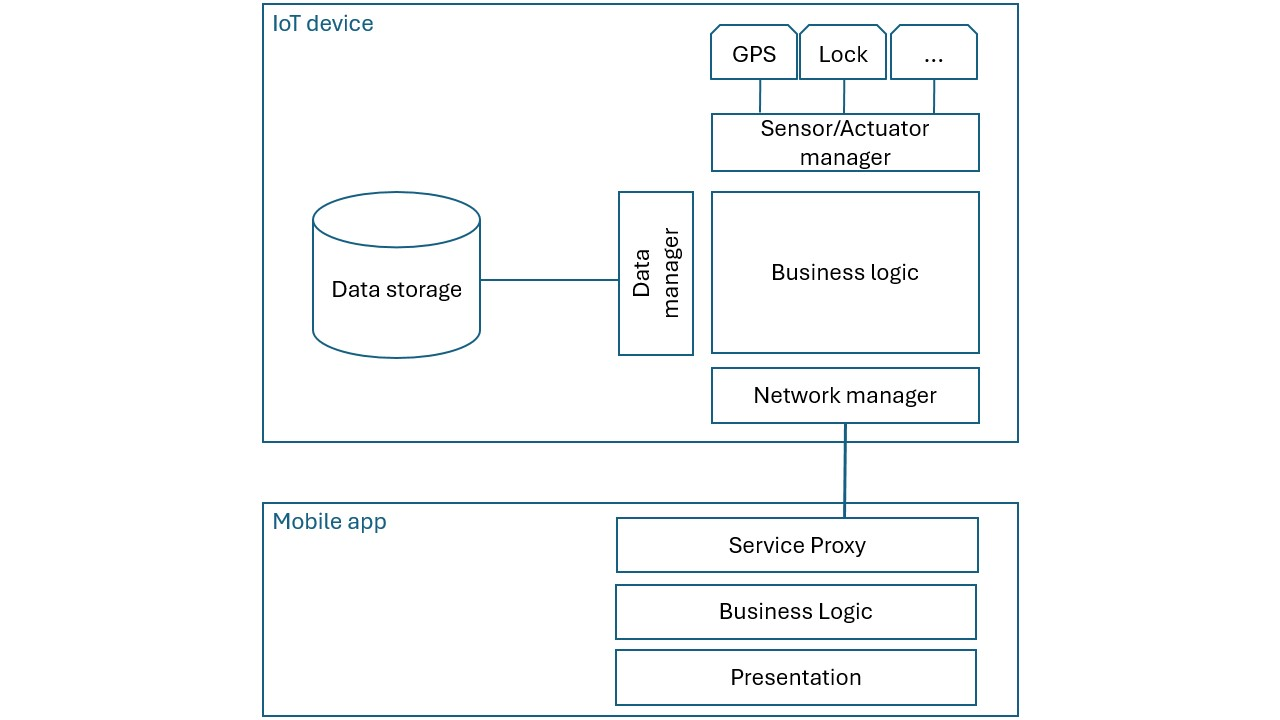
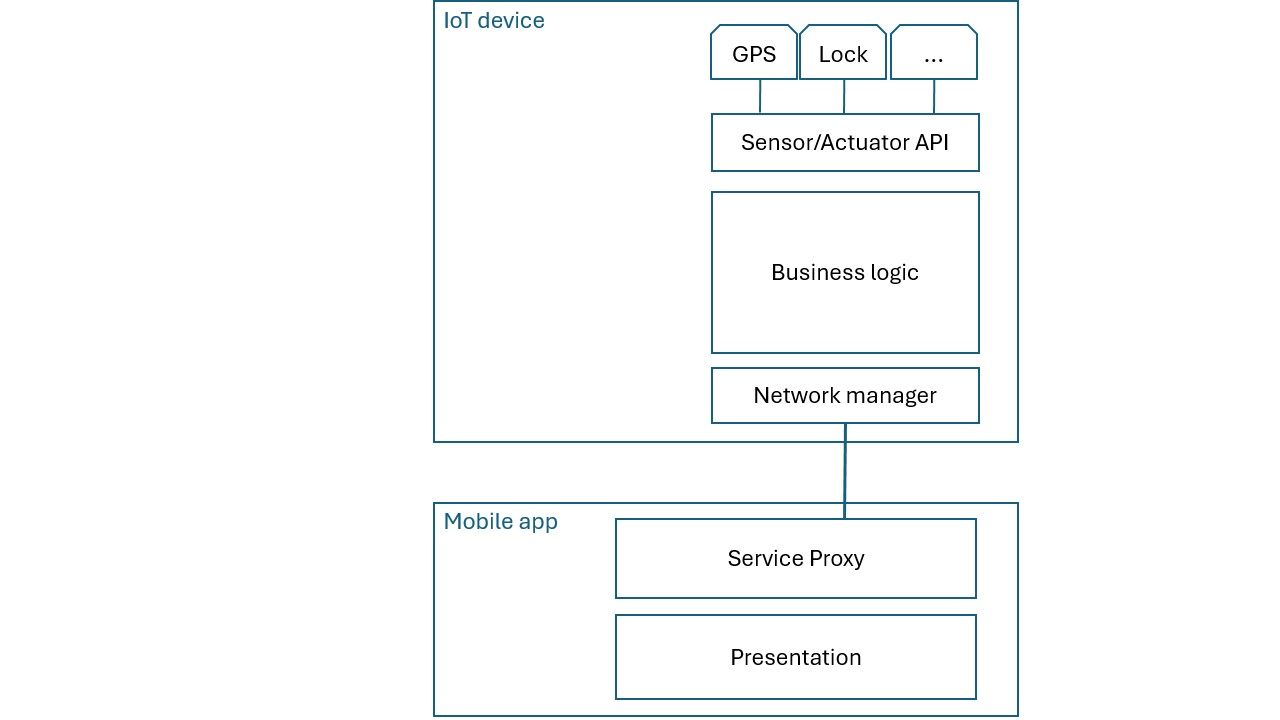
Testing

diff --git a/docs/main.tex b/docs/main.tex
@@ -2,7 +2,7 @@
 \usepackage{graphicx}
 
 \title{Smart Bike}
-\author{Group 7: Beñat Ramirez, Meritxell Carvajal Librado, Vigo Matuka, Mark Suvorov}
+\author{Group 7: Beñat Ramirez, Meritxell Carvajal Librado, \\ Vigo Matuka, Mark Suvorov}
 \setlength{\parskip}{1em}
 \date{}
 
@@ -61,15 +61,13 @@ Furthermore, the idea of deeper integration of sensors and actuators directly in
 	\label{fig:architecture}
 \end{figure}
 
-In figure \ref{fig:architecture}, we can see the architecture that we will use for our project. In the IoT device,
-the data manager allows an easy access to the information stored in the devices' memory. The Sensor/Actuator manager
+In figure \ref{fig:architecture}, we can see the architecture that we will use for our project. In the IoT device, the Sensor/Actuator API
 provides an abstraction that allows us to easily access to the data provided by different sensors or activate different
 actuators in an easy way. The network manager will be in charge of handling the connectivity with the mobile app. The business
 layer takes decisions based on the data from different sources.
 \\
 \\
-In the mobile app we have the classical three layer architecture for clients: The presentation layer renders the UI for the user, the 
-business layer handles any logic required for the client, and the service proxy connects to the IoT device.
+In the mobile app we have a two layer architecture for the client: The presentation layer renders the UI for the user and the service proxy handles the connection to the IoT device, and is in charge of the data serialization.
 
 \section{Methods \& Tools}
 The development of the Smart Bike system will be based on a modular architecture combining embedded programming on the Raspberry Pi Pico W, wireless communication, and a mobile application. The project will follow an object-oriented programming (OOP) approach, where each hardware and software component will be encapsulated into dedicated classes (e.g., GPSSensor, LightSensor, ActuatorController, MQTTClient, AppInterface). 

diff --git a/test/locustfile.py b/test/locustfile.py
@@ -1,0 +1,34 @@
+from locust import HttpUser, task
+
+class Performance(HttpUser):
+    @task
+    def hello_world(self):
+        self.client.get("/")
+
+    @task
+    def get_sensors(self):
+        self.client.get("/sensors")
+    
+    @task
+    def find_mode(self):
+        self.client.get("/findMode")
+
+    @task
+    def configure_settings(self):
+        self.client.request("PUT", "/settings", data=("asdsfasdf").encode(), json='{"auto_light": true,"auto_light_level_on": 200,"auto_light_level_off": 2000,"proximity_lock": false,"proximity_meters": 10}' )
+
+    # @task
+    # def set_light(self):
+    #     self.client.put("/light", json='{"state": true}' )
+
+    # @task
+    # def set_lock(self):
+    #     self.client.put("/light", json='{"state": true}' )
+
+    # @task
+    # def proximity_check(self):
+    #     self.client.put("/proximity", json='{"lat": 65.059950, "lon": 25.466049}')
+
+    # @task
+    # def gps_history(self):
+    #     self.client.put("/getGps", json='{"start": "010124","end": "010126"}')

diff --git a/server/facade/facade.py b/server/facade/facade.py
@@ -16,7 +16,7 @@ def hello_world(request):
     utils.send_response(server, "HELLO", 201)
 
 def configure_settings(request):
-    print(request)
+    print("Request:" + request)
     try:
         json_start = str.find(request, "{")
         request_body = request[json_start : ]
@@ -31,6 +31,7 @@ def configure_settings(request):
 
         utils.send_response(server, "", 204)
     except (ValueError, KeyError) as e:
+            
         print(e)
         utils.send_response(server, "Invalid JSON", 400)
 

diff --git a/server/main.py b/server/main.py
@@ -23,9 +23,9 @@ print(sta_if.ifconfig()[0])
 if (sta_if.isconnected() == False):
     raise Exception("WiFi not connected")
 
-api.init()
+# api.init()
 
-_thread.start_new_thread(core.subroutine, ())
+# _thread.start_new_thread(core.subroutine, ())
 
 server : MicroPyServer = MicroPyServer()
 facade.set_server(server)
